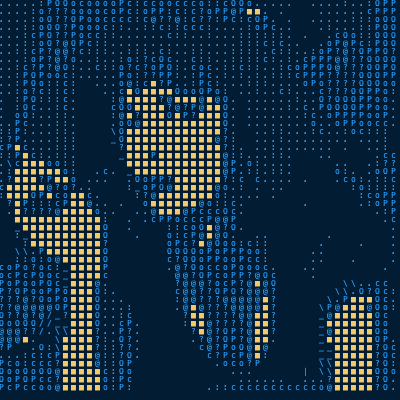
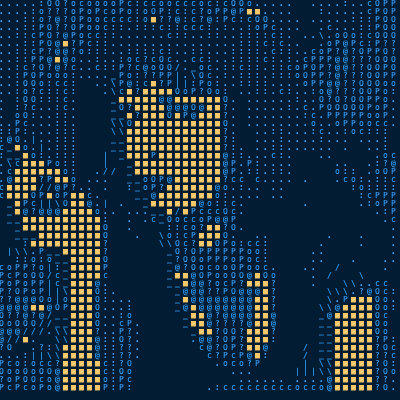
more renders to rm

diff --git a/asci.js b/asci.js
@@ -283,7 +283,7 @@ image.addEventListener("load", (e) => {
     gs.push(green)
     bs.push(blue)
     // console.log(red, green, blue, alpha)
-    let gamma = 1.0619
+    let gamma = 1.0699
     // let gamma = 1.069
     let lum = (0.2126 * Math.pow(red, gamma)) + (0.7152 * Math.pow(green, gamma)) + (0.0722 * Math.pow(blue, gamma))
     // let lum = (red + blue + green) / 3
@@ -366,7 +366,7 @@ image.addEventListener("load", (e) => {
 
     // "_ / | \"
     // 120
-    if (sobeled[i] > 150) {
+    if (sobeled[i] > 110) {
       sctx.fillText(conTexture[ind], ini1++ * 8, inj1 * 8);
       buf[inj1][ini1] = conTexture[ind]
     } else {
